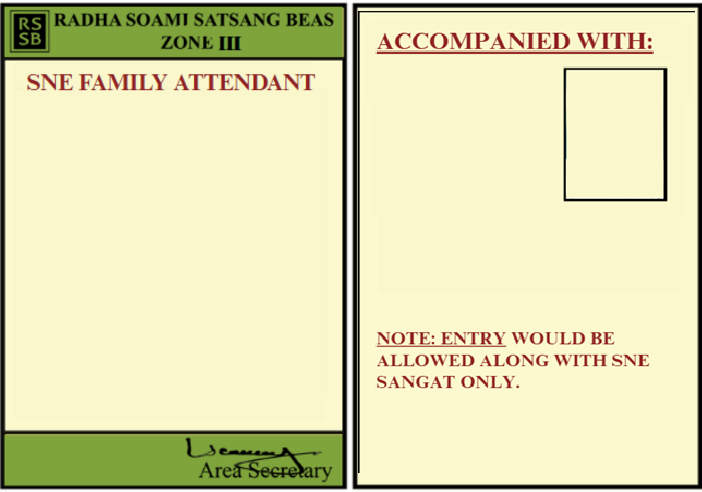
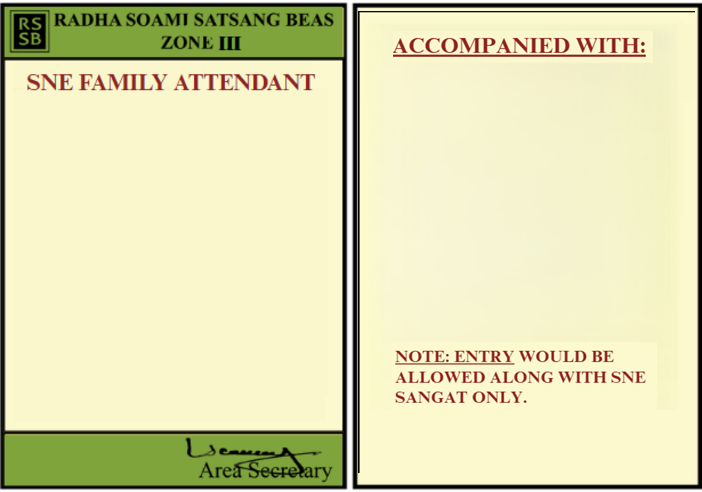
image coords change

Changed region(s): [[0.5385, 0.6707, 0.9274, 0.8232], [0.5385, 0.061, 0.9573, 0.4268], [0.7778, 0.1524, 0.8077, 0.3963]]

diff --git a/config.py b/config.py
@@ -63,7 +63,7 @@ ATTENDANT_BADGE_SEWADAR_TEMPLATE_PATH = 'static/images/sne_attendant_badge_sewad
 ATTENDANT_BADGE_FAMILY_TEMPLATE_PATH = 'static/images/sne_attendant_badge_family.png'
 ATTENDANT_PHOTO_PASTE_X_PX = 70; ATTENDANT_PHOTO_PASTE_Y_PX = 100
 ATTENDANT_PHOTO_BOX_WIDTH_PX = 100; ATTENDANT_PHOTO_BOX_HEIGHT_PX = 140
-ATTENDANT_SNE_PHOTO_PASTE_X_PX = 250; ATTENDANT_SNE_PHOTO_PASTE_Y_PX = 100
+ATTENDANT_SNE_PHOTO_PASTE_X_PX = 400; ATTENDANT_SNE_PHOTO_PASTE_Y_PX = 100
 ATTENDANT_SNE_PHOTO_BOX_WIDTH_PX = 100; ATTENDANT_SNE_PHOTO_BOX_HEIGHT_PX = 140
 ATTENDANT_TEXT_ELEMENTS = {
     "badge_id": {"coords": (20, 250), "size": 30, "color": (0,0,139), "is_bold": True},
